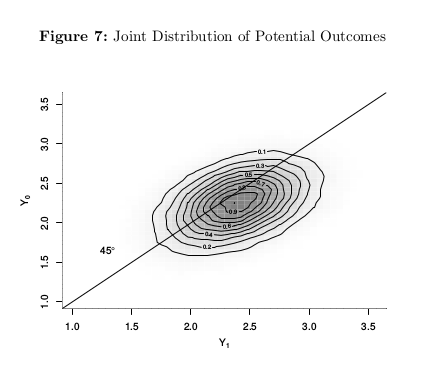
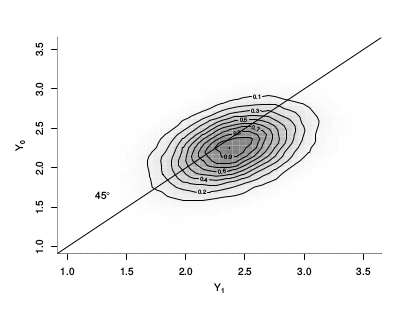
update of slides

diff --git a/overview_generalized_roy/slides/main.tex b/overview_generalized_roy/slides/main.tex
@@ -292,7 +292,7 @@ B^{LATE}(x, u_S, u_{S^\prime}) = \frac{1}{u_S - u_{S^\prime}} \int_{u_S}^{u_{S^\
 \begin{frame}
 \begin{figure}[htp]\centering
 	\caption{Joint Distribution of Potential Outcomes}\label{Treatment Effects Benefits}
-	\scalebox{0.80}{\includegraphics{./material/fig-distribution-potential_wolabel.png}}
+	\scalebox{0.80}{\includegraphics{./material/fig-distribution-potential.png}}
 \end{figure}
 \end{frame}
 
@@ -300,7 +300,7 @@ B^{LATE}(x, u_S, u_{S^\prime}) = \frac{1}{u_S - u_{S^\prime}} \int_{u_S}^{u_{S^\
 \begin{frame}
 \begin{figure}[htp]\centering
 	\caption{Joint Distribution of Surplus and Benefits}\label{Treatment Effects Benefits}
-	\scalebox{0.80}{\includegraphics{./material/fig-distribution-surplus_wolabel.png}}
+	\scalebox{0.80}{\includegraphics{./material/fig-distribution-surplus.png}}
 \end{figure}
 \end{frame}
 
